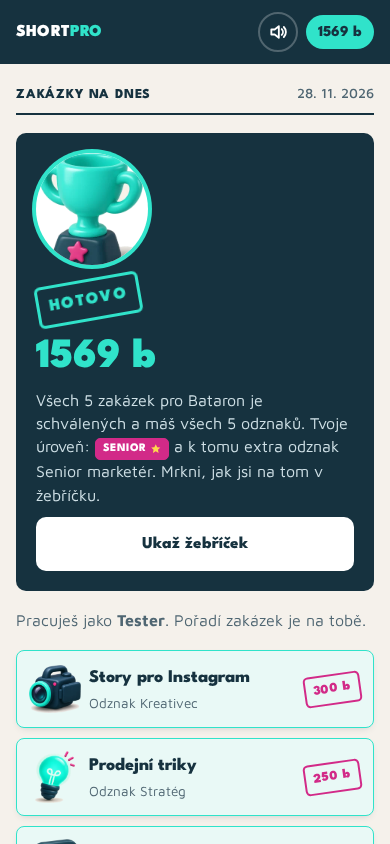
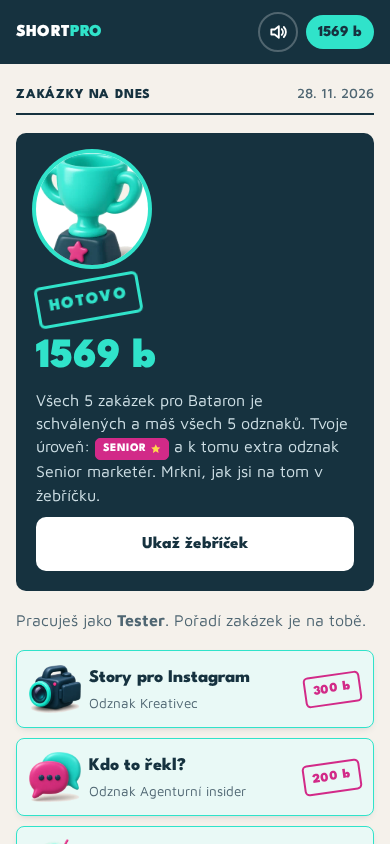
Pořadí úkolů od Junior po Senior

Changed region(s): [[0.0615, 0.8934, 0.6154, 0.955], [0.7692, 0.8934, 0.8615, 0.955], [0.0923, 0.9858, 0.1846, 1.0]]

diff --git a/docs/index.html b/docs/index.html
@@ -347,10 +347,10 @@ function countUp(a, b){
 
 const TASKS = [
   {id:'story', pic:'i-cam', name:'Story pro Instagram', role:'Kreativa', time:'4 min', badge:'Kreativec', lvl:'Junior'},
+  {id:'kdo', pic:'i-chat', name:'Kdo to řekl?', role:'Porada v agentuře', time:'2 min', badge:'Agenturní insider', lvl:'Junior'},
   {id:'triky', pic:'i-bulb', name:'Prodejní triky', role:'Strategie', time:'3 min', badge:'Stratég', lvl:'Medior'},
   {id:'influ', pic:'i-influ', name:'Výběr influencera', role:'Analytika', time:'3 min', badge:'Analytik', lvl:'Senior'},
   {id:'tym', pic:'i-team', name:'Tým kampaně', role:'Projektové řízení', time:'4 min', badge:'Projekťák', lvl:'Senior'},
-  {id:'kdo', pic:'i-chat', name:'Kdo to řekl?', role:'Porada v agentuře', time:'2 min', badge:'Agenturní insider', lvl:'Junior'},
 ];
 const T = id => TASKS.find(t=>t.id===id);
 /* Čas: od prvního otevření úkolu. Při plném počtu bodů se zbývající sekundy připíšou jako bonus (David 23. 11.). */
@@ -474,7 +474,7 @@ function tilt(el){
   el.addEventListener('click', ()=>{ const D = window.DeviceOrientationEvent; if(D && D.requestPermission) D.requestPermission().then(r=>{ if(r==='granted') addEventListener('deviceorientation', onOri) }).catch(()=>{}) });
   if(window.DeviceOrientationEvent && !DeviceOrientationEvent.requestPermission) addEventListener('deviceorientation', onOri);
 }
-function header(t, n){ return `<button class="back" data-go="">${ic('back')} Zakázky</button><div class="docbar"><span>${t.role} · ${t.lvl}</span><span>Zakázka ${n} z 5</span></div>${isDone(t.id)?'':'<div class="clock" id="clock" aria-live="off"></div>'}` }
+function header(t){ const n = TASKS.indexOf(t)+1; return `<button class="back" data-go="">${ic('back')} Zakázky</button><div class="docbar"><span>${t.role} · ${t.lvl}</span><span>Zakázka ${n} z 5</span></div>${isDone(t.id)?'':'<div class="clock" id="clock" aria-live="off"></div>'}` }
 /* výsledek: vždy až po 100 % správně; fresh = právě dokončeno */
 function result(task, text, tries, fresh){
   const t = T(task);
@@ -502,7 +502,7 @@ let hookI = 0;
 function story(){
   const t = T('story'), sv = state.saved.story || (state.saved.story = {on:[]}), done = isDone('story'); if(!done) startClock(sv);
   const txt = 'Přesně tohle dělá každý den náš kreativní tým: hook, produkt, důvod ke koupi a označení.';
-  app.innerHTML = `${header(t,1)}<h2>Natoč Story, které zastaví palec</h2>
+  app.innerHTML = `${header(t)}<h2>Natoč Story, které zastaví palec</h2>
   ${done ? result('story', txt, 1) : ''}
   <p class="lead">Jsi tvůrce obsahu pro Bataron. Vezmi si kelímek ze stolu a natoč Story do 15 sekund. Stačí jeden záběr nebo tři krátké.</p>
   <div class="phone"><div class="bars"><i></i><i></i><i></i></div>
@@ -569,7 +569,7 @@ function triky(){
   if(sv.q >= TRICKS.length){
     const fresh = !isDone('triky');
     if(fresh){ const avg = sv.att.reduce((a,n)=>a+[100,60,30][Math.min(n,3)-1],0)/TRICKS.length; award('triky', Math.round(avg)); buzz([20,40,30]) }
-    app.innerHTML = `${header(t,2)}<h2>Teď víš, jak tě obchody ovlivňují</h2>` +
+    app.innerHTML = `${header(t)}<h2>Teď víš, jak tě obchody ovlivňují</h2>` +
       result('triky', `Všech ${TRICKS.length} triků máš správně. Až půjdeš příště nakupovat, zkus najít aspoň tři z nich.`, Math.max(1,tries)) +
       `<div class="recap">${TRICKS.map(Q=>`<p class="fb y">${ic('check','')}<span><b>${Q.e[0]}.</b> ${Q.q}</span></p>`).join('')}</div>`;
     return;
@@ -577,7 +577,7 @@ function triky(){
   const Q = TRICKS[sv.q];
   if(!sv.order || sv.order.q !== sv.q){ const rest = Q.o.map((x,i)=>i).filter(i=>i!==Q.a); rest.splice(Q.pos,0,Q.a); sv.order = {q:sv.q, o:rest} }
   const order = sv.order.o, wrong = new Set(sv.wrong);
-  app.innerHTML = `${header(t,2)}
+  app.innerHTML = `${header(t)}
   <div class="qprog" aria-label="Otázka ${sv.q+1} ze ${TRICKS.length}">${TRICKS.map((x,i)=>`<i class="${i<sv.q?'ok':i===sv.q?'cur':''}"></i>`).join('')}</div>
   <div class="scene">${Q.scene()}</div>
   <h2>${Q.q}</h2>
@@ -612,7 +612,7 @@ function influ(){
   const t = T('influ'), sv = state.saved.influ || (state.saved.influ = {pick:[], tries:0, msg:''});
   const pick = new Set(sv.pick), done = isDone('influ'); if(!done) startClock(sv);
   const spent = [...pick].reduce((a,i)=>a+INF[i].price,0);
-  app.innerHTML = `${header(t,3)}<h2>Najdi influencery pro Bataron</h2>
+  app.innerHTML = `${header(t)}<h2>Najdi influencery pro Bataron</h2>
   ${done ? result('influ', 'Správně jsou @gamer_tom a @foodie.linh za 27 000 Kč. Víc sledujících neznamená lepší výběr. Rozhoduje, kdo je sleduje a jestli reagují. Proč u každého profilu, najdeš níže.', sv.tries) :
   `<p class="lead">Cíl: aby Bataron poznali lidé 16 až 25 let v Česku, kteří studují nebo hrají do noci a chtějí rychlé jídlo. Vyber jeden nebo víc profilů a vejdi se do rozpočtu.</p>
   <div class="budget"><div class="nums"><span>Utraceno ${kc(spent)}</span><span>Rozpočet ${kc(BUDGET)}</span></div>
@@ -659,7 +659,7 @@ function tym(){
   while(sv.team.length<CAMPS.length){ sv.team.push([]); sv.checked.push(null) }
   const team = sv.team.map(a=>new Set(a)), done = isDone('tym'); if(!done) startClock(sv);
   const campOk = ci => CAMPS[ci].a.every(x=>team[ci].has(x)) && team[ci].size===CAMPS[ci].n;
-  app.innerHTML = `${header(t,4)}<h2>Jsi projektový manažer. Sestav týmy.</h2>
+  app.innerHTML = `${header(t)}<h2>Jsi projektový manažer. Sestav týmy.</h2>
   ${done ? result('tym', 'Všechny 4 týmy máš sestavené správně. Přesně takhle se v agentuře skládá tým na každou zakázku.', sv.tries) :
   `<p class="lead">Pro každou kampaň vyber lidi z agentury. Kolik jich potřebuješ, je napsané u kampaně. Ty jako projekťák jsi v každém týmu automaticky.</p>`}
   <details class="legend"><summary>Kdo co dělá</summary><br><div class="roles">${ROLES.map(r=>`<div class="role"><b>${r[1]}</b>${r[2]}</div>`).join('')}</div></details>
@@ -706,7 +706,7 @@ function kdo(){
   const match = sv.match, done = isDone('kdo'), okSet = new Set(sv.ok), badSet = new Set(sv.bad); if(!done) startClock(sv);
   const nameOf = id => CAST.find(c=>c[0]===id)[1];
   if(armed==null || match[armed]!=null || okSet.has(armed)){ const n = LINES.findIndex((l,i)=>match[i]==null); armed = n<0?null:n }
-  app.innerHTML = `${header(t,5)}<h2>Kdo to řekl?</h2>
+  app.innerHTML = `${header(t)}<h2>Kdo to řekl?</h2>
   ${done ? result('kdo', 'Všech 5 vět máš přiřazených správně. Teď víš, kdo v agentuře co řeší.', sv.tries) :
   `<p class="lead">Klepni na větu a pak dole na člověka, který ji na poradě nejspíš řekl. Jeden člověk je navíc.</p>
    ${badSet.size?warn(`${badSet.size===1?'Jedna věta nesedí':`${badSet.size} věty nesedí`}. Jsou označené červeně, přiřaď je znovu.`):''}`}

diff --git a/index.html b/index.html
@@ -346,10 +346,10 @@ function countUp(a, b){
 
 const TASKS = [
   {id:'story', pic:'i-cam', name:'Story pro Instagram', role:'Kreativa', time:'4 min', badge:'Kreativec', lvl:'Junior'},
+  {id:'kdo', pic:'i-chat', name:'Kdo to řekl?', role:'Porada v agentuře', time:'2 min', badge:'Agenturní insider', lvl:'Junior'},
   {id:'triky', pic:'i-bulb', name:'Prodejní triky', role:'Strategie', time:'3 min', badge:'Stratég', lvl:'Medior'},
   {id:'influ', pic:'i-influ', name:'Výběr influencera', role:'Analytika', time:'3 min', badge:'Analytik', lvl:'Senior'},
   {id:'tym', pic:'i-team', name:'Tým kampaně', role:'Projektové řízení', time:'4 min', badge:'Projekťák', lvl:'Senior'},
-  {id:'kdo', pic:'i-chat', name:'Kdo to řekl?', role:'Porada v agentuře', time:'2 min', badge:'Agenturní insider', lvl:'Junior'},
 ];
 const T = id => TASKS.find(t=>t.id===id);
 /* Čas: od prvního otevření úkolu. Při plném počtu bodů se zbývající sekundy připíšou jako bonus (David 23. 11.). */
@@ -473,7 +473,7 @@ function tilt(el){
   el.addEventListener('click', ()=>{ const D = window.DeviceOrientationEvent; if(D && D.requestPermission) D.requestPermission().then(r=>{ if(r==='granted') addEventListener('deviceorientation', onOri) }).catch(()=>{}) });
   if(window.DeviceOrientationEvent && !DeviceOrientationEvent.requestPermission) addEventListener('deviceorientation', onOri);
 }
-function header(t, n){ return `<button class="back" data-go="">${ic('back')} Zakázky</button><div class="docbar"><span>${t.role} · ${t.lvl}</span><span>Zakázka ${n} z 5</span></div>${isDone(t.id)?'':'<div class="clock" id="clock" aria-live="off"></div>'}` }
+function header(t){ const n = TASKS.indexOf(t)+1; return `<button class="back" data-go="">${ic('back')} Zakázky</button><div class="docbar"><span>${t.role} · ${t.lvl}</span><span>Zakázka ${n} z 5</span></div>${isDone(t.id)?'':'<div class="clock" id="clock" aria-live="off"></div>'}` }
 /* výsledek: vždy až po 100 % správně; fresh = právě dokončeno */
 function result(task, text, tries, fresh){
   const t = T(task);
@@ -501,7 +501,7 @@ let hookI = 0;
 function story(){
   const t = T('story'), sv = state.saved.story || (state.saved.story = {on:[]}), done = isDone('story'); if(!done) startClock(sv);
   const txt = 'Přesně tohle dělá každý den náš kreativní tým: hook, produkt, důvod ke koupi a označení.';
-  app.innerHTML = `${header(t,1)}<h2>Natoč Story, které zastaví palec</h2>
+  app.innerHTML = `${header(t)}<h2>Natoč Story, které zastaví palec</h2>
   ${done ? result('story', txt, 1) : ''}
   <p class="lead">Jsi tvůrce obsahu pro Bataron. Vezmi si kelímek ze stolu a natoč Story do 15 sekund. Stačí jeden záběr nebo tři krátké.</p>
   <div class="phone"><div class="bars"><i></i><i></i><i></i></div>
@@ -568,7 +568,7 @@ function triky(){
   if(sv.q >= TRICKS.length){
     const fresh = !isDone('triky');
     if(fresh){ const avg = sv.att.reduce((a,n)=>a+[100,60,30][Math.min(n,3)-1],0)/TRICKS.length; award('triky', Math.round(avg)); buzz([20,40,30]) }
-    app.innerHTML = `${header(t,2)}<h2>Teď víš, jak tě obchody ovlivňují</h2>` +
+    app.innerHTML = `${header(t)}<h2>Teď víš, jak tě obchody ovlivňují</h2>` +
       result('triky', `Všech ${TRICKS.length} triků máš správně. Až půjdeš příště nakupovat, zkus najít aspoň tři z nich.`, Math.max(1,tries)) +
       `<div class="recap">${TRICKS.map(Q=>`<p class="fb y">${ic('check','')}<span><b>${Q.e[0]}.</b> ${Q.q}</span></p>`).join('')}</div>`;
     return;
@@ -576,7 +576,7 @@ function triky(){
   const Q = TRICKS[sv.q];
   if(!sv.order || sv.order.q !== sv.q){ const rest = Q.o.map((x,i)=>i).filter(i=>i!==Q.a); rest.splice(Q.pos,0,Q.a); sv.order = {q:sv.q, o:rest} }
   const order = sv.order.o, wrong = new Set(sv.wrong);
-  app.innerHTML = `${header(t,2)}
+  app.innerHTML = `${header(t)}
   <div class="qprog" aria-label="Otázka ${sv.q+1} ze ${TRICKS.length}">${TRICKS.map((x,i)=>`<i class="${i<sv.q?'ok':i===sv.q?'cur':''}"></i>`).join('')}</div>
   <div class="scene">${Q.scene()}</div>
   <h2>${Q.q}</h2>
@@ -611,7 +611,7 @@ function influ(){
   const t = T('influ'), sv = state.saved.influ || (state.saved.influ = {pick:[], tries:0, msg:''});
   const pick = new Set(sv.pick), done = isDone('influ'); if(!done) startClock(sv);
   const spent = [...pick].reduce((a,i)=>a+INF[i].price,0);
-  app.innerHTML = `${header(t,3)}<h2>Najdi influencery pro Bataron</h2>
+  app.innerHTML = `${header(t)}<h2>Najdi influencery pro Bataron</h2>
   ${done ? result('influ', 'Správně jsou @gamer_tom a @foodie.linh za 27 000 Kč. Víc sledujících neznamená lepší výběr. Rozhoduje, kdo je sleduje a jestli reagují. Proč u každého profilu, najdeš níže.', sv.tries) :
   `<p class="lead">Cíl: aby Bataron poznali lidé 16 až 25 let v Česku, kteří studují nebo hrají do noci a chtějí rychlé jídlo. Vyber jeden nebo víc profilů a vejdi se do rozpočtu.</p>
   <div class="budget"><div class="nums"><span>Utraceno ${kc(spent)}</span><span>Rozpočet ${kc(BUDGET)}</span></div>
@@ -658,7 +658,7 @@ function tym(){
   while(sv.team.length<CAMPS.length){ sv.team.push([]); sv.checked.push(null) }
   const team = sv.team.map(a=>new Set(a)), done = isDone('tym'); if(!done) startClock(sv);
   const campOk = ci => CAMPS[ci].a.every(x=>team[ci].has(x)) && team[ci].size===CAMPS[ci].n;
-  app.innerHTML = `${header(t,4)}<h2>Jsi projektový manažer. Sestav týmy.</h2>
+  app.innerHTML = `${header(t)}<h2>Jsi projektový manažer. Sestav týmy.</h2>
   ${done ? result('tym', 'Všechny 4 týmy máš sestavené správně. Přesně takhle se v agentuře skládá tým na každou zakázku.', sv.tries) :
   `<p class="lead">Pro každou kampaň vyber lidi z agentury. Kolik jich potřebuješ, je napsané u kampaně. Ty jako projekťák jsi v každém týmu automaticky.</p>`}
   <details class="legend"><summary>Kdo co dělá</summary><br><div class="roles">${ROLES.map(r=>`<div class="role"><b>${r[1]}</b>${r[2]}</div>`).join('')}</div></details>
@@ -705,7 +705,7 @@ function kdo(){
   const match = sv.match, done = isDone('kdo'), okSet = new Set(sv.ok), badSet = new Set(sv.bad); if(!done) startClock(sv);
   const nameOf = id => CAST.find(c=>c[0]===id)[1];
   if(armed==null || match[armed]!=null || okSet.has(armed)){ const n = LINES.findIndex((l,i)=>match[i]==null); armed = n<0?null:n }
-  app.innerHTML = `${header(t,5)}<h2>Kdo to řekl?</h2>
+  app.innerHTML = `${header(t)}<h2>Kdo to řekl?</h2>
   ${done ? result('kdo', 'Všech 5 vět máš přiřazených správně. Teď víš, kdo v agentuře co řeší.', sv.tries) :
   `<p class="lead">Klepni na větu a pak dole na člověka, který ji na poradě nejspíš řekl. Jeden člověk je navíc.</p>
    ${badSet.size?warn(`${badSet.size===1?'Jedna věta nesedí':`${badSet.size} věty nesedí`}. Jsou označené červeně, přiřaď je znovu.`):''}`}
